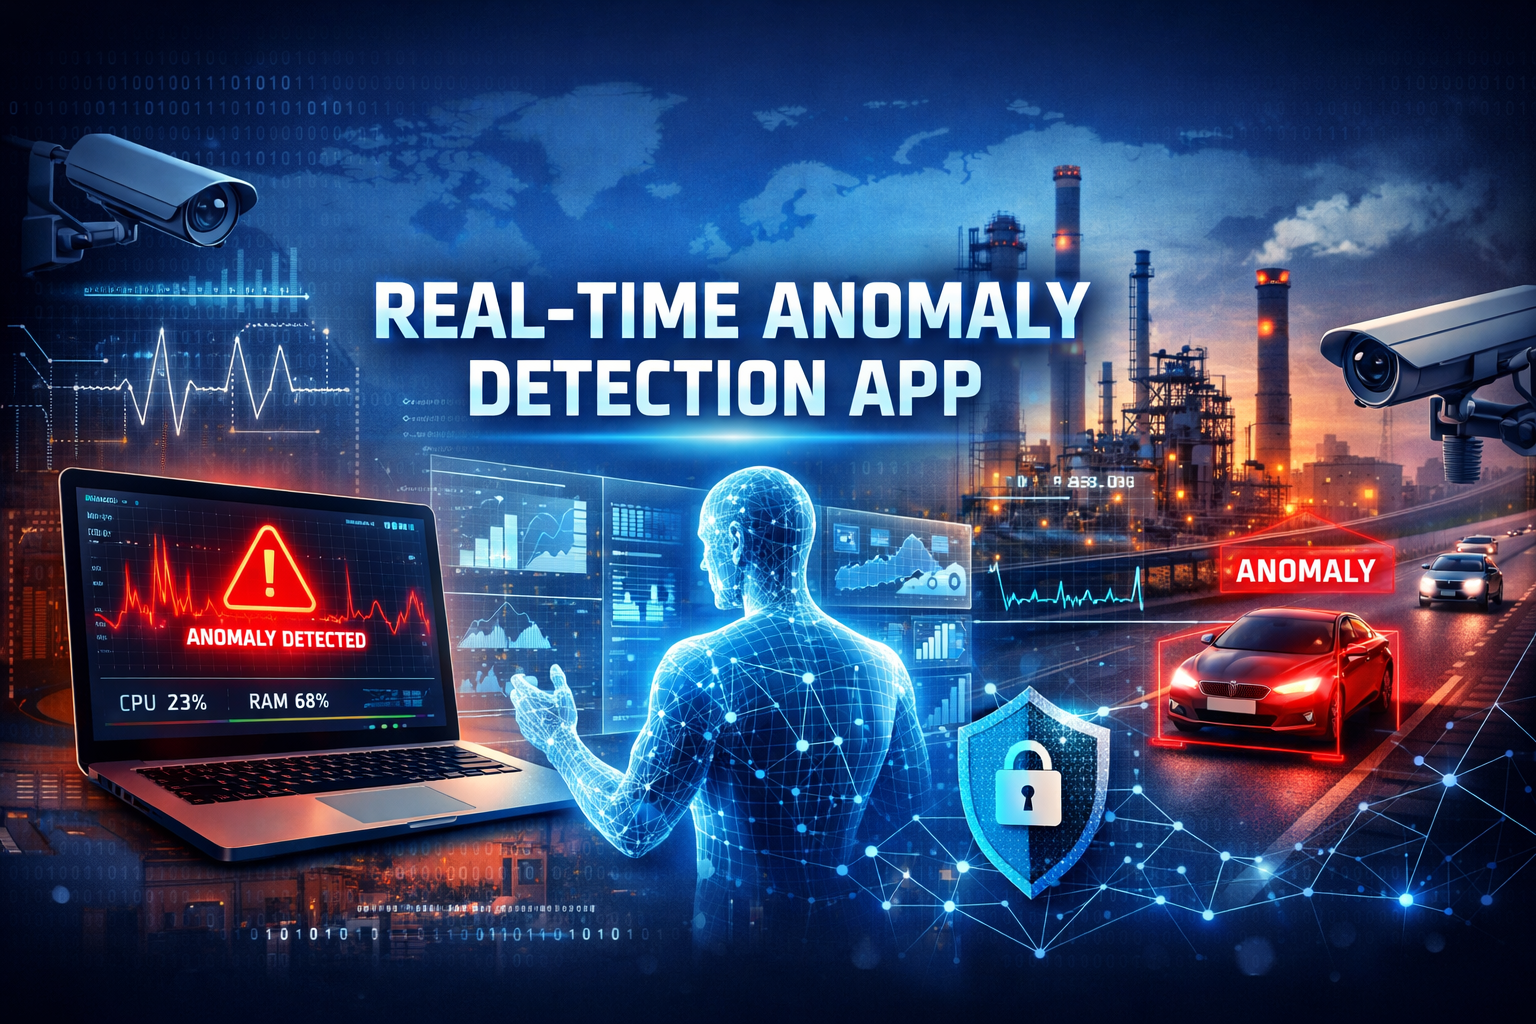
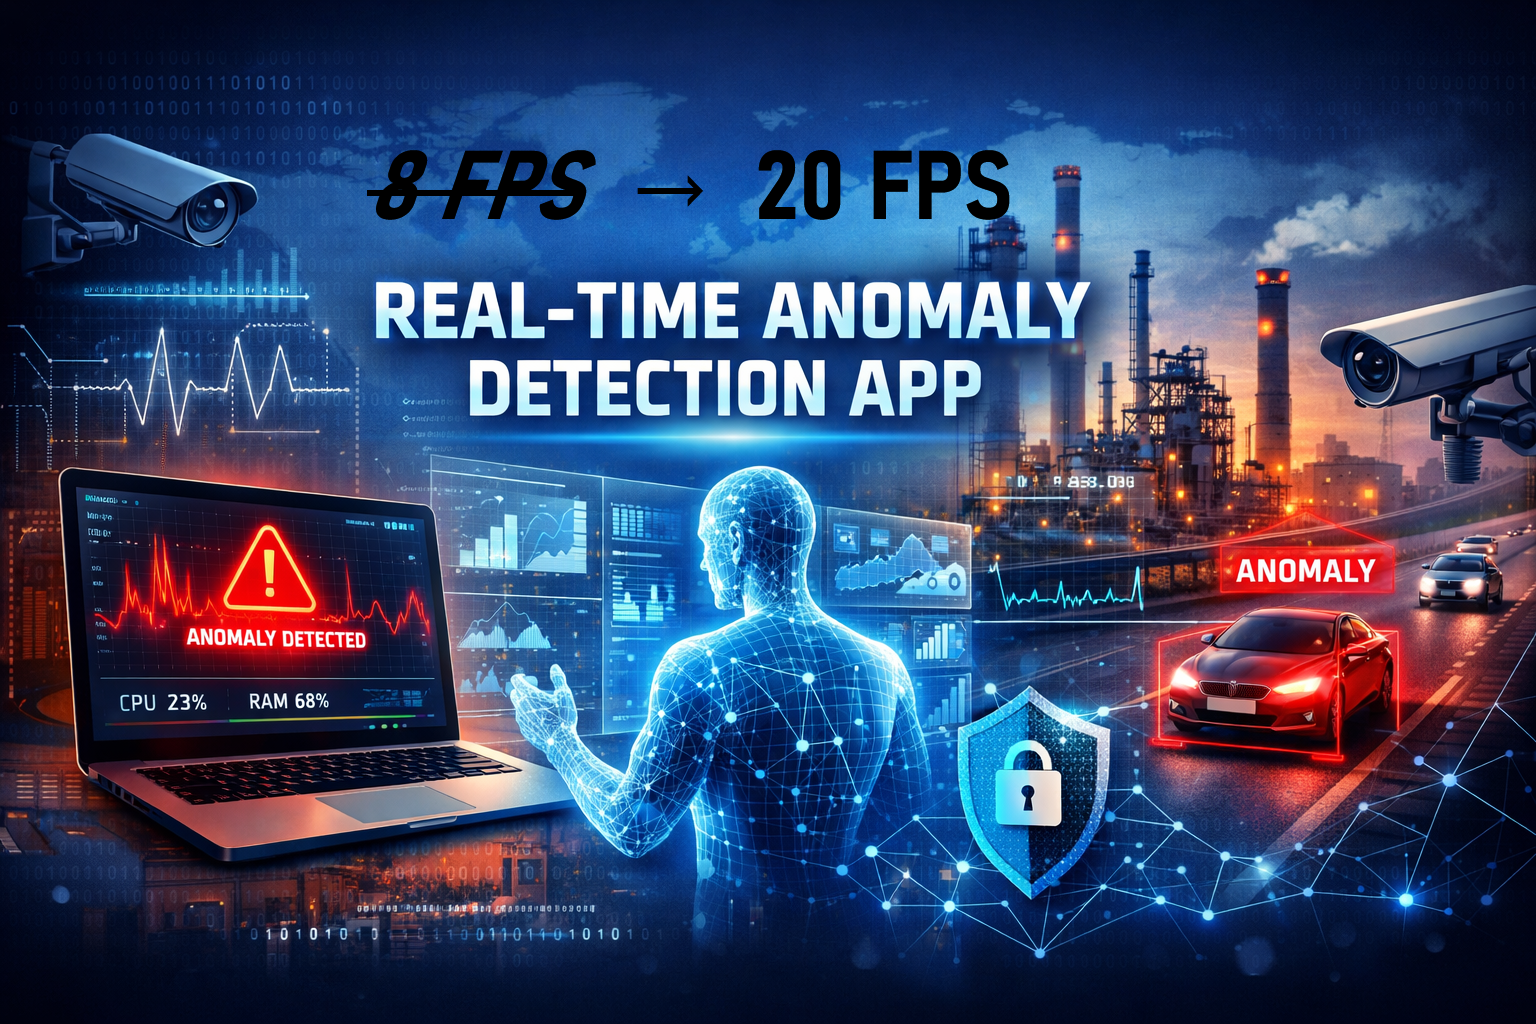
Update README and title image for new version
Replaced title image in README and assets, updated app name and version badge, and added performance information for the new release.

Changed region(s): [[0.4688, 0.125, 0.6562, 0.2188], [0.2188, 0.125, 0.4062, 0.2188], [0.4375, 0.1562, 0.4688, 0.1875]]

diff --git a/README.md b/README.md
@@ -1,10 +1,12 @@
-![title image](assets/title1.png)
+![title image](assets/title2.png)
 
-# Real Time Anomaly Detection App
+# **Even MORE Real Time** Anomaly Detection App
+
+Inferenzzeit-Optimierte Version: ALT 8.0 FPS / **NEU 20 FPS** (*RDX 3070 Ti)
 
 Real-time Anomalie-Erkennung mit IDS Kameras und DINOv3 Zero-Shot Learning.
 
-![Version](https://img.shields.io/badge/version-14.0-blue)
+![Version](https://img.shields.io/badge/version-1.0-blue)
 ![Framework](https://img.shields.io/badge/framework-PySide6-green)
 ![GPU](https://img.shields.io/badge/GPU-CUDA%2012.1-orange)
 
